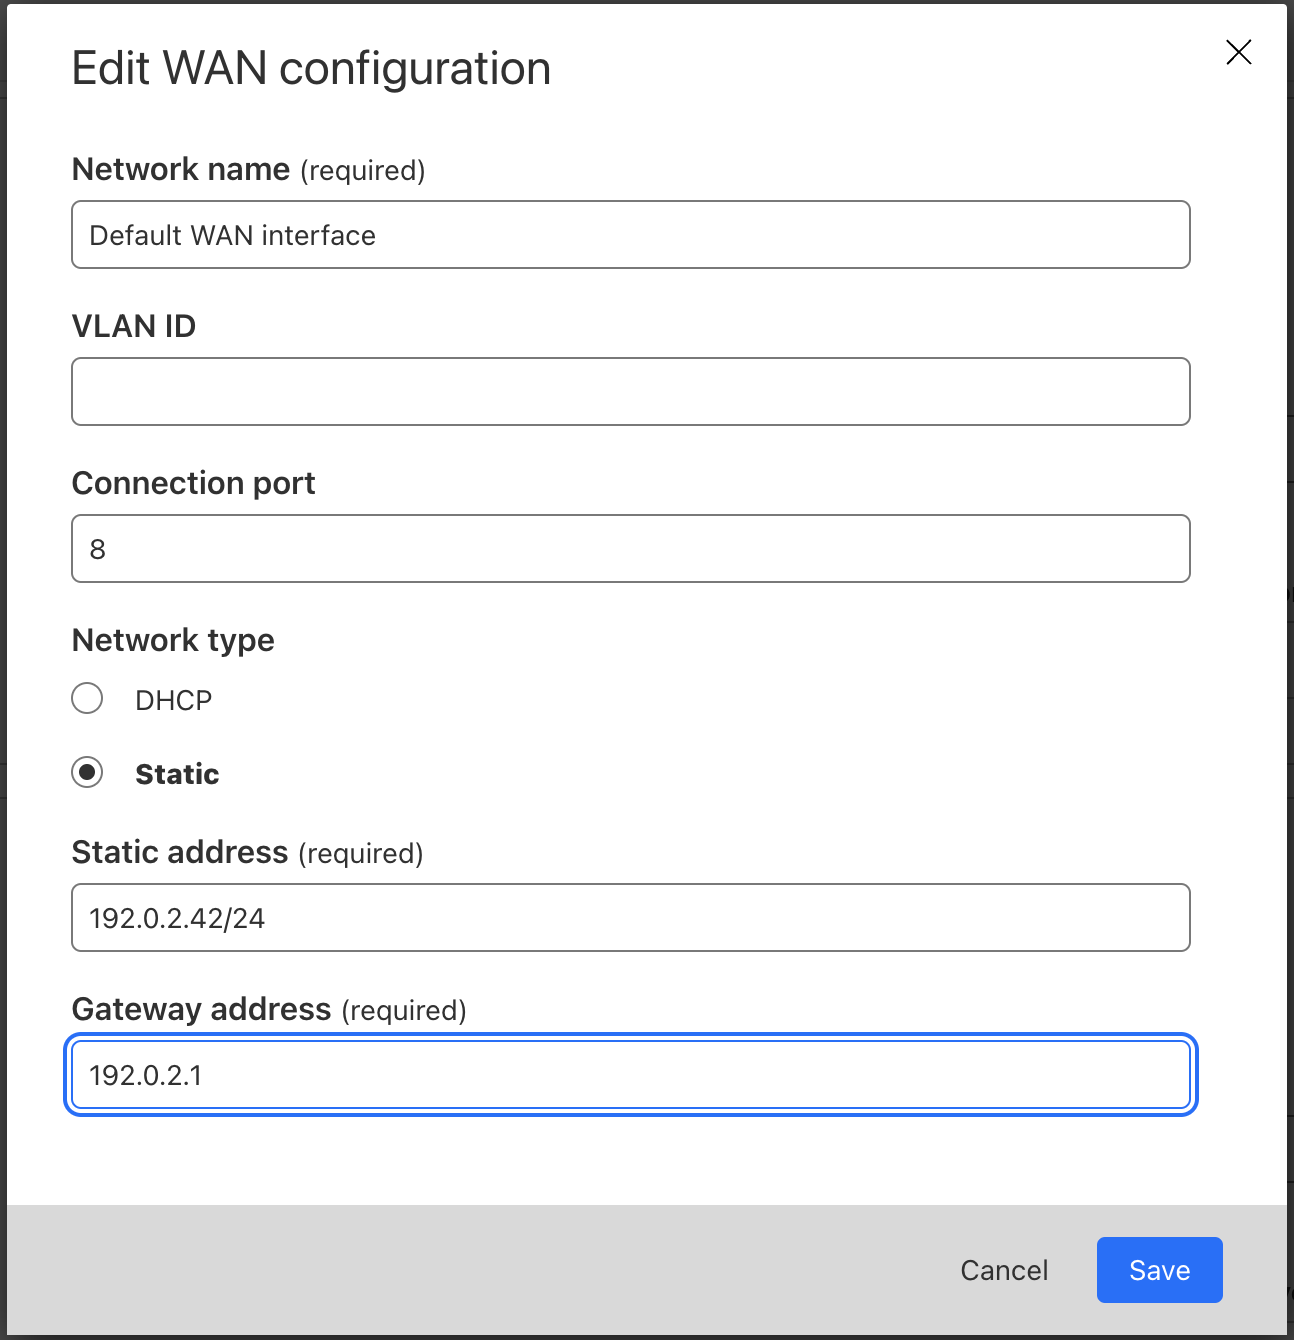
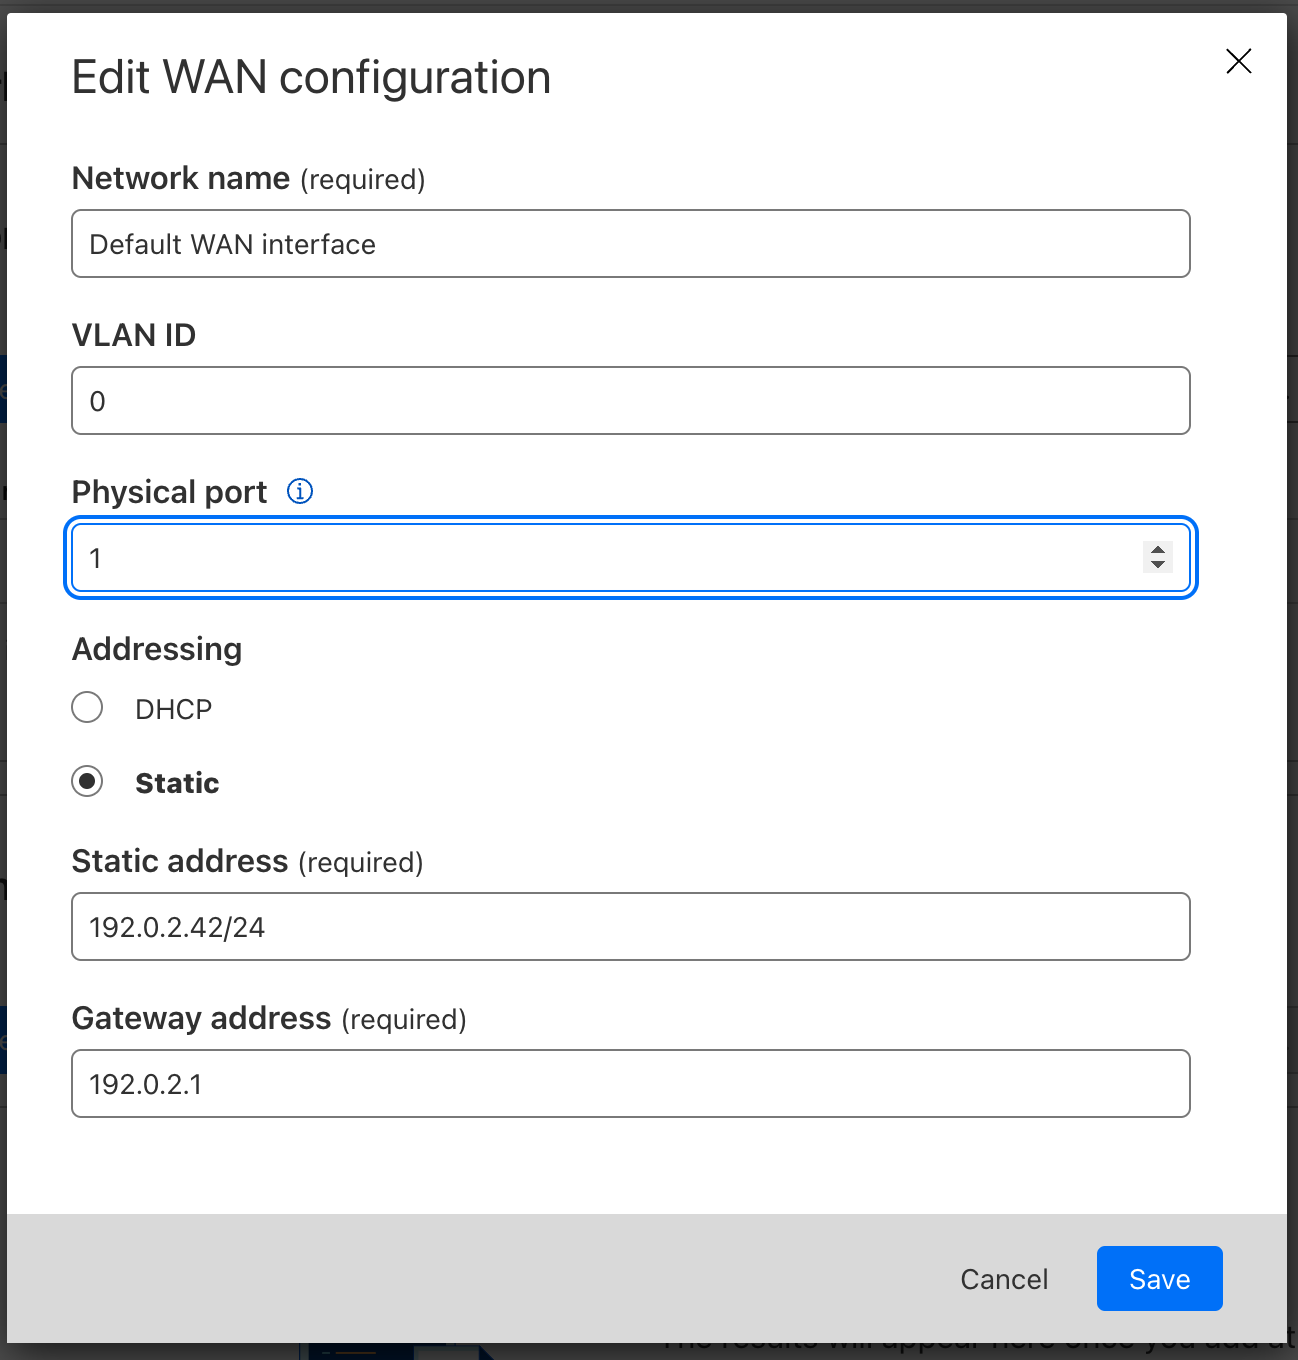
[MWAN Connector] Dash changes (#10817)
* corrected how to steps

* replaced connector imgs

* refined text

* spelling error

diff --git a/content/magic-wan/connector/configure-connector.md b/content/magic-wan/connector/configure-connector.md
@@ -24,45 +24,52 @@ To add a site:
 
 1. Log in to the [Cloudflare dashboard](https://dash.cloudflare.com/) and select your account.
 2. Go to **Magic WAN** > **Sites**.
-3. Select **Add site** to create a new one and start the configuration wizard.
+3. Select **Create** to create a new site and start the configuration wizard.
 4. Add a name and description for your new site. 
-5. Under **Connector**, select **Add Connector**. This will show a list of Magic WAN Connector devices associated with your account.
+5. Under **Connector**, select **Add Connector**. This will show you a list of Magic WAN Connector devices associated with your account.
 6. Choose from the list the Connector corresponding to the site you are creating. Connectors are identified by a serial number, also known as a service tag. Select **Add Connector** when you are ready to proceed.
-    1. (Optional) You can also define an **Interrupt service window** for your site. This is the time period when the Magic WAN Connector software can update, which may result in interruption to existing connections. Refer to [Set up your Magic WAN Connector](#3-set-up-your-magic-wan-connector) for more details.
-7. Select **Next** to proceed to configuring your network.
-8. Under **WAN configuration**, there should be a **Default WAN interface** automatically created. Select **Edit** in the default interface, or **Create** if there is none. You should only have one WAN interface on this list.
-    1. Enter a descriptive name for your WAN.
-    2. (Optional) Specify a VLAN ID and port for your WAN.
-    3. In **Network type**, specify whether the WAN IP should be fetched from a DHCP server or if it is a static IP. If you choose a static IP, you also need to specify the static IP and gateway IP addresses.
+7. The Connector will be added to your site with an **Interrupt service window** defined. This is the time period when the Magic WAN Connector software can update, which may result in interruption to existing connections. You can change this later. Refer to [Set up your Magic WAN Connector](#3-set-up-your-magic-wan-connector) for more details.
+8. Select **Next** to proceed.
+9. Under **WAN configuration**, select the three dots in the **Default WAN interface** > **Edit** to configure your WAN (you should only have one WAN interface in this list):
+    1. **Network name**: Enter a descriptive name for your WAN.
+    2. **(Optional) VLAN ID**: Specify a VLAN ID and port for your WAN.
+    3. **Physical port**: This refers to the physical Magic WAN Connector port that you are using for your WAN.
+    4. **Addressing**: Specify whether the WAN IP should be fetched from a DHCP server or if it is a static IP. If you choose a static IP, you also need to specify the static IP and gateway IP addresses.
 
-<div class="medium-img">
+    <div class="medium-img">
 
-![An example of how to configure you Magic WAN Connector WAN](/images/magic-wan/connector/wan-config.png)
+    ![An example of how to configure you Magic WAN Connector WAN](/images/magic-wan/connector/wan-config.png)
 
-</div>
+    </div>
 
-Select **Save** when you are finished.
+10. Select **Save** when you are finished.
 
-9. Repeat this process to define your LAN configuration. In **Network type** you need to specify if your IP address should be fetched from a DHCP server, or if it is a static address. If you choose a static IP for your LAN, you will also have to specify the static IP address, and if the server is DHCP. If it is, you will further need to specify:
-    - The DNS server address
-    - The DHCP pool start
-    - The DHCP pool end
+11. In **LAN configuration**, select **Create**, and repeat the process to define your LAN:
+    1. **Network name**: Enter a descriptive name for your LAN.
+    2. **(Optional) VLAN ID**: Specify a VLAN ID and port for your LAN.
+    3. **Physical port**: This refers to the physical Magic WAN Connector port's number that you are using for your LAN.
+    4. **Overlay subnet**: The subnet behind Magic WAN Connector. This should match the static address if you choose to set up your Connector with a static address.
+    5. **Addressing**: Specify if your IP address should be fetched from a DHCP server, or if it is a static address.
+    6. **(Optional) This is a DHCP Server**: Enable this to set up the Connector as a DHCP server. If you enable this option, you will also have to specify:
+        - The DNS server address
+        - The DHCP pool start
+        - The DHCP pool end
 
-For example:
+    For example:
 
-<div class="medium-img">
+    <div class="medium-img">
 
-![An example of how to configure you Magic WAN Connector LAN](/images/magic-wan/connector/lan-config.png)
+    ![An example of how to configure you Magic WAN Connector LAN](/images/magic-wan/connector/lan-config.png)
 
-</div>
+    </div>
 
-Select **Save** when you are finished.
+12. Select **Save** when you are finished.
 
-10. Select **Save and exit** to finish your configuration. Tunnels and static routes will be automatically created and associated with your site once the Magic WAN Connector boots up (refer to the next step).
+13. Select **Save and exit** to finish your configuration. Tunnels and static routes will be automatically created and associated with your site once the Magic WAN Connector boots up (refer to the next step).
 
 ## 3. Set up your Magic WAN Connector
 
-The Magic WAN Connector will only establish a connection to the Cloudflare network when it is activated, so we recommend leaving it deactivated until you are ready to establish the connection.
+The Magic WAN Connector is shipped to you deactivated, and will only establish a connection to the Cloudflare network when it is activated. Cloudflare recommends leaving it deactivated until you are ready to establish the connection, to prevent unauthorized users to access your network.
 
 When the Connector is first activated, one of the ports must be connected to the Internet through a route that supports DHCP. This is required so that the Connector can reach the Cloudflare global network and download the required configurations that you set up in the [Site configuration](#2-define-a-site-configuration) step.
 
@@ -72,7 +79,7 @@ When you are ready to connect your Magic WAN Connector to the Cloudflare network
 2. Go to **Magic WAN** > **Configuration** > **Connectors**.
 3. Find the Connector you want to activate, and select **Edit**. Make sure you verify the serial number to choose the right connector you want to activate.
 4. In the new window, the **Status** dropdown will show as **Inactive**. Select it to change the status to **Activated**.
-5. (Optional) The **Interrupt service window** is the time period when the Magic WAN Connector software can update, which may result in interruption to existing connections. Choose a time period to minimize disruption to your sites.
+5. The **Interrupt service window** is the time period when the Magic WAN Connector software can update, which may result in interruption to existing connections. Choose a time period to minimize disruption to your sites.
 5. Select **Update**.
 
 {{<Aside type="note">}}
